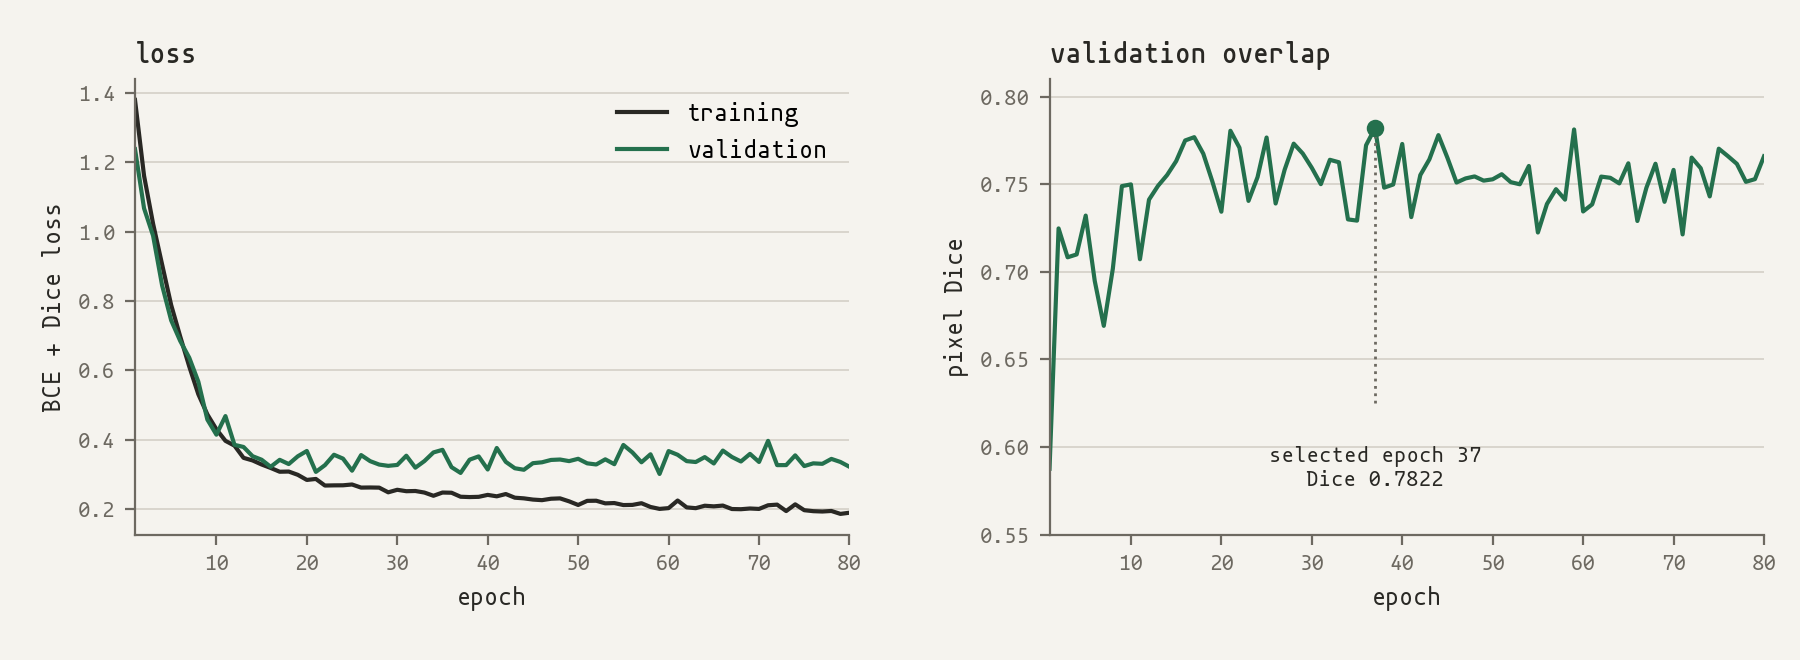
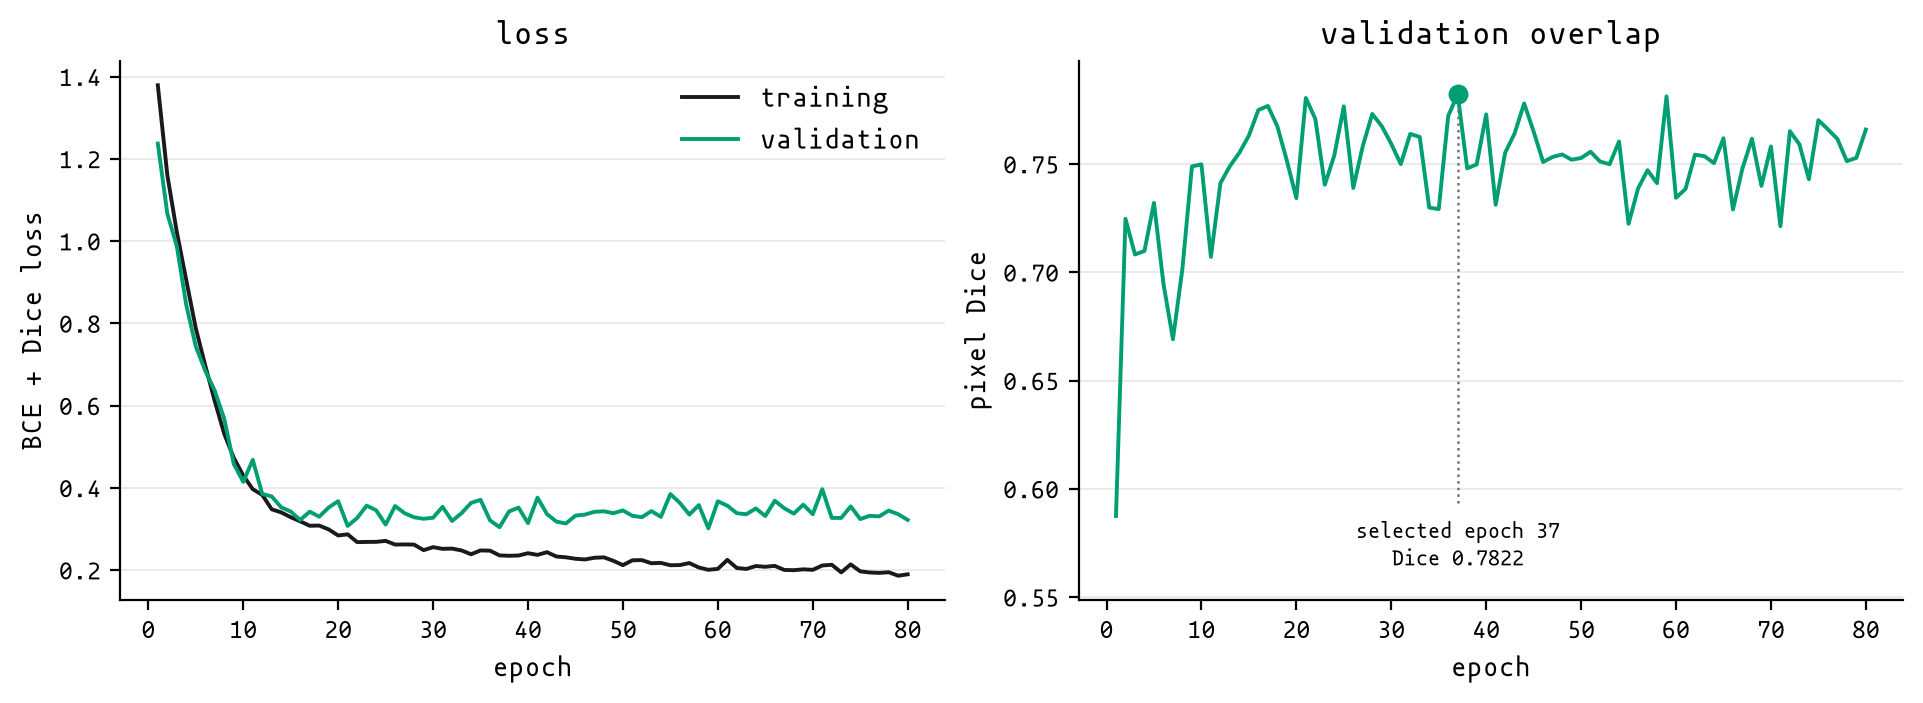
docs: update training history plot

diff --git a/src/fibre_sight/train_unet.py b/src/fibre_sight/train_unet.py
@@ -7,6 +7,7 @@ Modified on 23 July 2026 to keep the loss experiments beside the training loop
 Modified on 24 July 2026 to use packaged recipes and local run directories
 Modified on 1 August 2026 to seed comparable runs and expose augmentation choices
 Modified on 14 August 2026
+Modified on 20 August 2026
 
 train the small U-Net and keep its run record
 
@@ -283,18 +284,75 @@ def plot_history(history, path):
 
     mpl_formatting()
 
-    epochs = [stats['epoch'] for stats in history]
-    fig, axes = plt.subplots(1, 2, figsize=(7, 3), constrained_layout=True)
+    epochs = np.asarray([stats['epoch'] for stats in history])
+    training_loss = np.asarray([stats['train_loss'] for stats in history])
+    validation_loss = np.asarray([stats['val_loss'] for stats in history])
+    validation_dice = np.asarray([
+        stats['val_pixel_dice'] for stats in history])
+    selected_index = int(np.argmax(validation_dice))
+    selected_epoch = epochs[selected_index]
+    selected_dice = validation_dice[selected_index]
 
-    axes[0].plot(epochs, [stats['train_loss'] for stats in history], label='train')
-    axes[0].plot(epochs, [stats['val_loss'] for stats in history], label='val')
+    training_colour = '#1A1A1C'
+    validation_colour = '#009E73'
+    fig, axes = plt.subplots(
+        1, 2, figsize=(9.5, 3.4), constrained_layout=True)
+
+    axes[0].plot(
+        epochs, training_loss,
+        color=training_colour, linewidth=1.4, label='training')
+    axes[0].plot(
+        epochs, validation_loss,
+        color=validation_colour, linewidth=1.4, label='validation')
+    axes[0].set_title('loss')
     axes[0].set_xlabel('epoch')
-    axes[0].set_ylabel('loss')
+    axes[0].set_ylabel('BCE + Dice loss')
     axes[0].legend(frameon=False)
 
-    axes[1].plot(epochs, [stats['val_pixel_dice'] for stats in history])
+    dice_range = np.ptp(validation_dice)
+    lower_margin = max(0.2 * dice_range, 0.03)
+    upper_margin = max(0.08 * dice_range, 0.01)
+    dice_bottom = max(0, validation_dice.min() - lower_margin)
+    dice_top = min(1, validation_dice.max() + upper_margin)
+    annotation_top = dice_bottom + 0.18 * (dice_top - dice_bottom)
+
+    axes[1].plot(
+        epochs, validation_dice,
+        color=validation_colour, linewidth=1.4)
+    axes[1].vlines(
+        selected_epoch,
+        annotation_top,
+        selected_dice,
+        color='0.45',
+        linestyle=':',
+        linewidth=0.9,
+        )
+    axes[1].scatter(
+        selected_epoch,
+        selected_dice,
+        color=validation_colour,
+        s=38,
+        zorder=3,
+        )
+    axes[1].text(
+        selected_epoch,
+        dice_bottom + 0.05 * (dice_top - dice_bottom),
+        f'selected epoch {selected_epoch}\nDice {selected_dice:.4f}',
+        ha='center',
+        va='bottom',
+        fontsize=8,
+        )
+    axes[1].set_title('validation overlap')
     axes[1].set_xlabel('epoch')
-    axes[1].set_ylabel('validation Dice')
+    axes[1].set_ylabel('pixel Dice')
+    axes[1].set_ylim(dice_bottom, dice_top)
+
+    for axis in axes:
+        axis.grid(axis='y', color='0.90', linewidth=0.6)
+        axis.spines[['top', 'right']].set_visible(False)
+        if len(epochs) == 1:
+            axis.set_xlim(selected_epoch - 0.5, selected_epoch + 0.5)
+            axis.set_xticks([selected_epoch])
 
     fig.savefig(path, dpi=200, bbox_inches='tight')
     plt.close(fig)

diff --git a/src/fibre_sight/_formatting.py b/src/fibre_sight/_formatting.py
@@ -2,21 +2,41 @@
 Created on 24 July 2026
 
 Modified on 14 August 2026
+Modified on 20 August 2026
 
 matplotlib formatting used by the analysis figures
 
 @author: Dinghao Luo
 '''
 
+#%% imports
+from ._repo import PACKAGE_ROOT
+
+
 #%% plotting
+_FONT_READY = False
+
+
 def mpl_formatting():
+    global _FONT_READY
     import matplotlib
+    from matplotlib import font_manager
+
+    if not _FONT_READY:
+        font_root = PACKAGE_ROOT / 'assets' / 'fonts' / 'mononoki'
+        for font_path in sorted(font_root.glob('*.ttf')):
+            font_manager.fontManager.addfont(str(font_path))
+        _FONT_READY = True
 
     matplotlib.rcParams.update(
         {
-            'font.family': 'Arial',
+            'font.family': 'mononoki',
+            'font.monospace': ['mononoki'],
             'pdf.fonttype': 42,
             'ps.fonttype': 42,
+            'figure.facecolor': 'white',
+            'axes.facecolor': 'white',
+            'savefig.facecolor': 'white',
             'axes.labelsize': 10,
             'xtick.labelsize': 9,
             'ytick.labelsize': 9,
